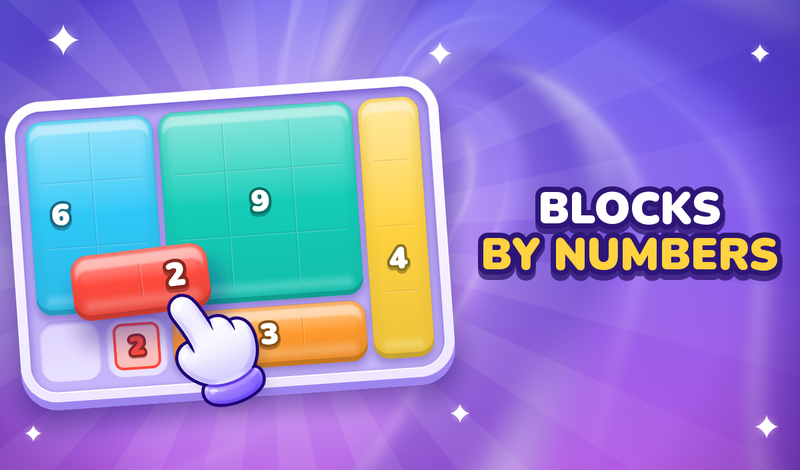
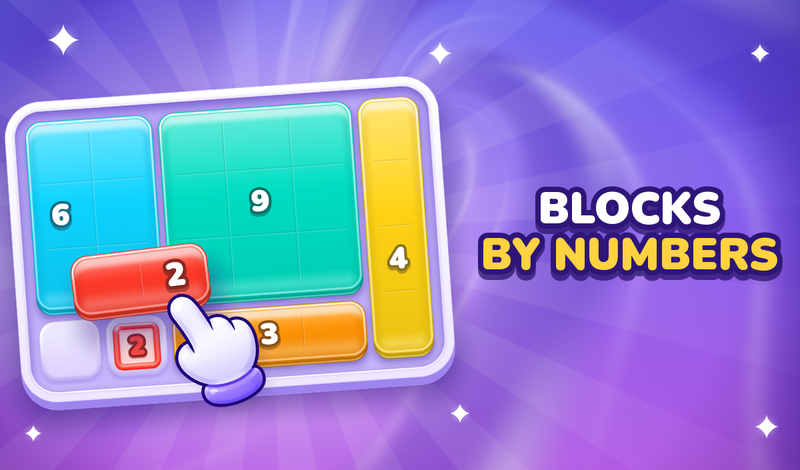
shaders

Changed region(s): [[0.0312, 0.2085, 0.5625, 0.834], [0.0312, 0.7745, 0.0625, 0.8043]]

diff --git a/tools/shader_preview.py b/tools/shader_preview.py
@@ -426,6 +426,12 @@ class Canvas:
         return Image.fromarray((np.clip(self.rgb, 0, 1) * 255 + 0.5).astype(np.uint8), "RGB")
 
 
+# win_rays.gdshader: прежний вид лучей и свечения (белые клинья по половине периода, свечение-эллипс) — логотип меню
+# (MenuLogo._make_halo задаёт то же) и промо-картинки; умолчания шейдера — экран победы (20.8, П7).
+RAYS_CLASSIC = {"ray_color": (1.0, 1.0, 1.0, 1.0), "ray_core": 0.25, "ray_soft": 0.0, "ray_alt": 1.0,
+                "glow_corner": -1.0}
+
+
 def draw_rect(cv, shader, gx, gy, w, h, s, color, params, time=0.0):
     """ColorRect с шейдером: локальный прямоугольник w×h, на экране — левый верх (gx, gy), масштаб s;
     time — TIME шейдера, с."""

diff --git a/tools/promo_art.py b/tools/promo_art.py
@@ -138,7 +138,7 @@ def rays(cv, cx, cy, r, n, alpha, glow, blur):
     hw, hh = max(r, glow[0] + 2 * blur), max(r, glow[1] + 2 * blur)
     sp.draw_rect(cv, "win_rays", cx - hw, cy - hh, 2 * hw, 2 * hh, 1.0, (1, 1, 1, 1), {
         "rect_size": (2 * hw, 2 * hh), "center": (hw, hh), "radius": r, "rays": float(n), "ray_alpha": alpha,
-        "glow_radius": glow, "glow_blur": blur, "glow_color": (1.0, 0.9, 1.0, 0.45)})
+        "glow_radius": glow, "glow_blur": blur, "glow_color": (1.0, 0.9, 1.0, 0.45), **sp.RAYS_CLASSIC})
 
 
 def sparkles(cv, spots):

diff --git a/docs/STYLE.md b/docs/STYLE.md
@@ -275,7 +275,8 @@
 - Темы глав (19.5c, раздел 11.6; вихрь — 19.7): у каждой главы свои семь цветов — градиент, виньетка и три цвета
   вихря (между витками, тон витка вверху и внизу) (`Background.set_chapter_theme`, переход 0,6 с). Числа выше —
   тема главы 1, она же цвета шейдера по умолчанию.
-- На победе за полем 20 лучей, белый 9 %, медленное вращение. Под полем лавандовое свечение.
+- На победе за полем 20 мягких розово-лавандовых лучей, медленное вращение, вокруг поля розовое свечение
+  (`win_rays.gdshader`, числа — раздел 11).
 
 ## 10. Лоток (полка)
 Рисует сам `Tray` (`_draw` с `shaders/shelf.gdshader`): корпус = ряд гнёзд + отступ гнезда со всех сторон
@@ -327,6 +328,18 @@
   звёзды выше (±148, центры на 20 и 42 px выше лица).
 - Порядок сверху вниз: «НОВЫЙ РЕКОРД!» (в шапке), очки «+120» со звездой, «Всего очков», кнопка «ДАЛЕЕ»
   380×110 px (`#2FCF78`, глубина губы 11 px), ссылка «Переиграть уровень» с иконкой `restart`.
+- Фон победы за полем (`WinBackdrop`, `win_rays.gdshader`). С 27.11 (вечер) — по референсу
+  `docs/shader_refs/win_rays.jpg` (20.8, промпт П7):
+  - Лучи: 20 мягких клиньев (255, 215, 255), сила 0,9. Поперёк луча яркое ядро — 0,06 периода от оси, дальше луч
+    плавно гаснет за 0,26 периода, без резкого края; каждый второй луч ×0,6. Вдоль луча сплошные до 0,15 радиуса и
+    гаснут к радиусу 600 px (растёт с большей стороной поля от 520 px). Оборот за 60 с.
+  - Свечение — по рамке поля: скруглённый прямоугольник на 70 px шире рамки с каждой стороны (`GLOW_MARGIN`, при
+    любом размере поля, в альбоме тоже), скругление 250 — на углах поля свечение слабее; (255, 199, 255) 92 %, край
+    размыт на σ 28 px (±2σ). Свечение поверх лучей: у поля лучи тонут в нём, дальше видны.
+  - Раньше (до 27.11): 20 белых клиньев 9 % по половине периода с резким краем, радиус 760; свечение — эллипс
+    330×335 (×поле / 520), (255, 225, 255) 40 %, σ 70.
+  - Сверено с референсом по полосам удалённости от поля (`docs/shader_refs/win_rays_cmp.jpg`): от 30 px — в пределах
+    ±7 единиц яркости; у самой кромки темнее на ~30 — тень поля рисуется поверх свечения. В Godot не прогнано (20.7).
 - Конфетти: 70 штук, цвета блоков 2, 3, 4, 5, 6, 8, 9 и белый, скруглённые полоски и кружки. Не летят поверх
   заголовка, поля и карточки.
 - Как окно победы выглядит в игре — `G13_5_win.png`, рядом с эталоном — `G13_5_win_compare.png` (кадры
@@ -407,7 +420,8 @@
   50 px блока, наклон 6°, ×1,08 и тень «поднят» (раздел 7). Число — по центру блока. Мини-поле без рамки.
   Прямоугольник логотипа — ровно по центру колонны (раньше блоки съезжали на 40 px вправо: масштаб LogoBlocks
   шёл вокруг pivot; теперь pivot 0, масштаб 1,2 от угла).
-- **Свечение и лучи за логотипом** — тот же `win_rays.gdshader`, что у победы (раздел 11): 14 белых лучей
+- **Свечение и лучи за логотипом** — тот же `win_rays.gdshader`, что у победы (раздел 11), но в прежнем виде,
+  заданном явно (`MenuLogo._make_halo`: клинья по половине периода с резким краем, свечение-эллипс): 14 белых лучей
   11 %, гаснут к радиусу 400, оборот за 60 с; свечение — эллипс 300×230 с размытием 55, розово-белый 42 %
   (`Color(1, 0.88, 1, 0.42)`), центр на 20 px выше середины логотипа.
 - **Искры** (`LogoSparkles`) — пять четырёхлучевых звёздочек `sparkle.png` (`tools/make_sparkle.py`) тёплого

diff --git a/PROGRESS.md b/PROGRESS.md
@@ -138,7 +138,10 @@
       полка `shelf.gdshader` (П3) — сделано; фон `background.gdshader` (П4, складки атласа) сделан и **откачен по
       решению пользователя (04:30): фон — прежний, не менять**; в Godot не смотрели (20.7).
       27.11, утро: карточки окон `card.gdshader` (П5, строка 6) и плашка «Осталось блоков» `pill.gdshader`
-      (П6, строка 7) — сделано, в Godot не смотрели (20.7). Дальше — строка 8 таблицы в `docs/shader_refs/PROMPTS.md`.
+      (П6, строка 7) — сделано, в Godot не смотрели (20.7).
+      27.11, вечер: лучи и свечение победы `win_rays.gdshader` (П7, строка 8) — сделано; свечение теперь по рамке
+      поля (+70 px с каждой стороны, и в альбоме), `WinBackdrop.play` / `set_center` получают размер рамки; в Godot
+      не смотрели (20.7). Дальше — строка 9 таблицы в `docs/shader_refs/PROMPTS.md` (`ghost.gdshader`).
 - [ ] 20.2 Причина тупика: подсветить число без единого места или общая подпись.
 - [ ] 20.3 Подсказка в две ступени: «посмотри сюда» бесплатно, затем блок (−1 звезда); флаг `hint_step1_free`.
 - [ ] 20.4 Музыка: 3–5 треков по 2–3 мин с вариациями, ротация по главам, пауза после ≈10 мин; вес — замером.
@@ -250,3 +253,17 @@
   низу (ярче на нижних скруглениях, вверх по торцам гаснет); заливка прежняя. Яркость по столбцам плашки сверена с
   референсом (тень и кромка — в пределах нескольких единиц), `pill_label_cmp.jpg`. STYLE (раздел 3, абзац под
   таблицей шрифтов), PROMPTS (П6, строка 7) обновлены. `check_gd`, `layout_model` — 0 проблем. В Godot не смотрели.
+- **Агент 4 (05:33 — 19:40, по просьбе пользователя):** `win_rays.gdshader` (строка 8). Референс П7
+  (`docs/shader_refs/win_rays.jpg`, вход — кадр победы старым шейдером, `win_rays_input.jpg`). Лучи — мягкие клинья
+  (ядро 0,06 периода, гаснут за 0,26, каждый второй ×0,6, (255, 215, 255), сила 0,9, радиус 600); свечение —
+  скруглённый прямоугольник по рамке поля вместо эллипса (+70 px, скругление 250, σ 28, (255, 199, 255) 92 %).
+  Свечение подобрано по полосам удалённости от поля: от 30 px — в пределах ±7 единиц яркости; у самой кромки темнее
+  на ~30 (тень поля поверх свечения, шейдером лучей не исправить). Альбом: раньше свечение росло ×2,25 вместе с
+  полем (плотная полоса ≈140 px) — теперь отступ `GLOW_MARGIN` 70 px при любом поле; `play(center, board_size)` и
+  `set_center(center, board_size)` в `win_backdrop.gd` / `game.gd` и то же в `window_preview.py`. Меню и промо —
+  прежний вид, задан явно (`MenuLogo._make_halo`, `RAYS_CLASSIC` в `shader_preview.py`; кадр меню совпал с `main`
+  до пикселя). Промо пересобраны: устарели ещё после строк 1–3 (`promo_check` в Pod выдавал «устарели»), лучи на
+  них не влияют. Пересобран `G13_5_win`, `win_rays_cmp.jpg` (референс / до / после). STYLE (раздел 9 — строка о
+  победе, раздел 11 — фон победы, логотип меню), PROMPTS (П7, строки картинок и 8) обновлены. `check_gd`,
+  `layout_model`, `promo_check` — 0 проблем. Песочница дважды сбрасывалась посреди работы: код сохранён в 19:38,
+  документы дописаны после. В Godot не смотрели (20.7).
